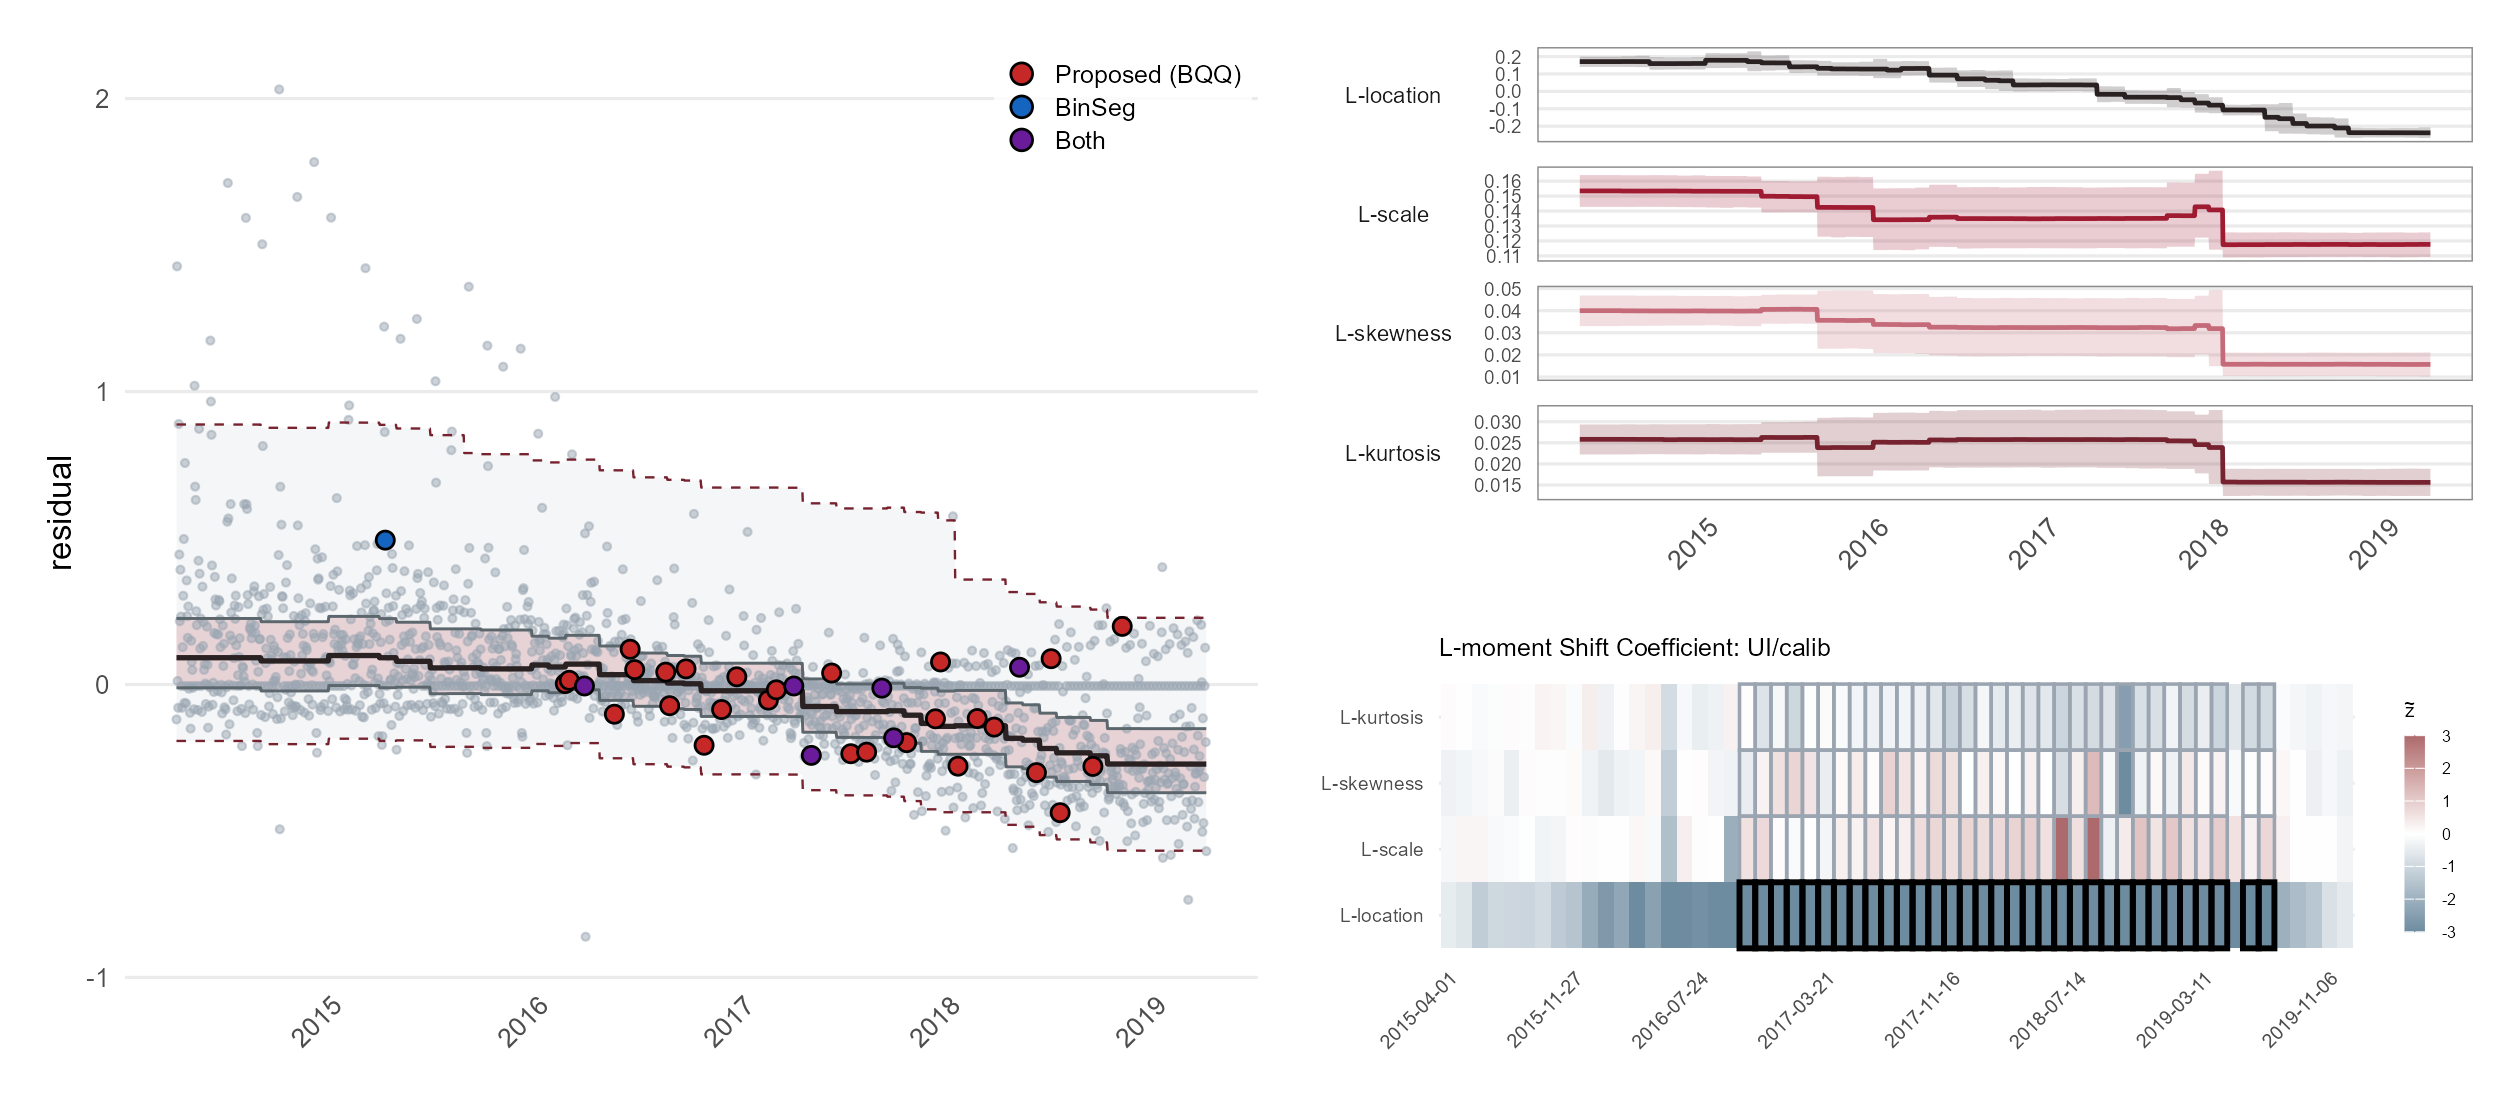
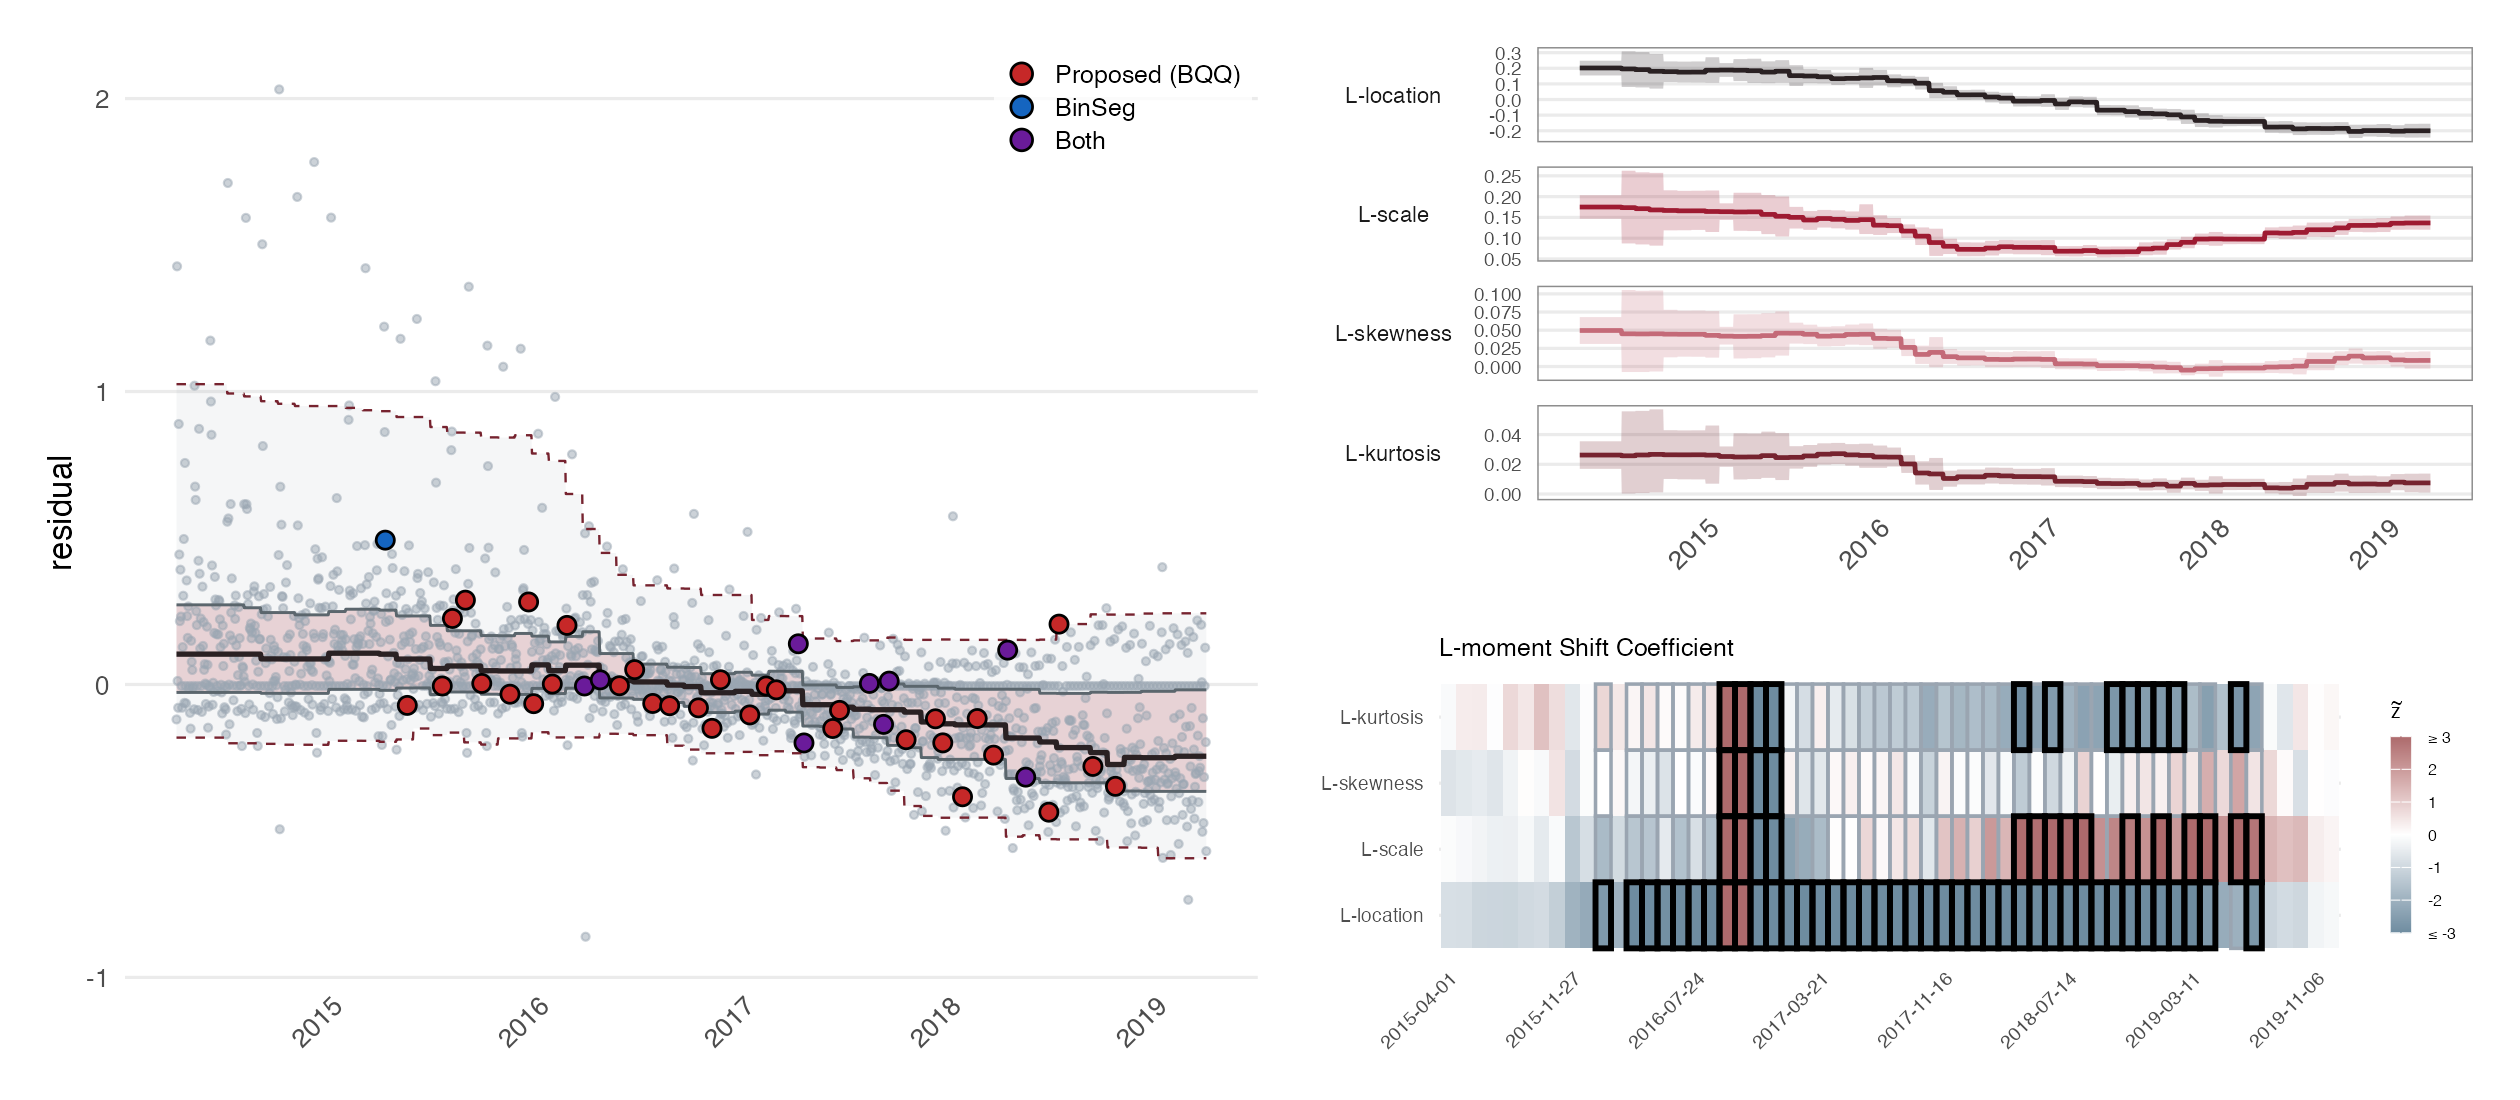
update

diff --git a/README.md b/README.md
@@ -61,9 +61,9 @@ The proposed method end to end: a grid search by cross-validation over the prior
 hyperparameter and the interquantile fusion weight `lambda_iq`, the final MAP fit at the
 winning pair, change-point detection on the three bases, and the figures. No EM is
 run anywhere: every CV fit and the final fit is a single MAP fit with `adaptive_iq = FALSE`.
-The block takes about «QS_MIN» minutes on a laptop (20 grid points, two folds, then the
-final fit with 20,000 Laplace draws); it flags «QS_FLAGS» and localizes the change to
-«QS_DATE».
+The block takes about 7 minutes on a laptop (20 grid points, two folds, then the
+final fit with 20,000 Laplace draws); it flags blocks 8 and 9 on the L-moment basis (7, 8 and 9 on the QSS basis), the blocks that contain the planted shift and localizes the change to
+2024-08-31 in block 8, with the winner at `spike_sd = 0.4`, `lambda_iq = 10`.
 
 ```r
 library(bqq)
@@ -127,9 +127,10 @@ p3 <- plotQSSProcess(fit, eta = eta, H = H, time = dates, detection = det,
                      date_breaks = ax$date_breaks, date_labels = ax$date_labels)
 p4 <- plotGammaHeatmap(fit, detection = det,
                        block_labels = format(dates[det$detected_blocks$obs_start]))
-# The talk's three-panel figure. A comparator's change points color the circles:
-# proposed, comparator, or both when within one block length of each other.
-cp <- changepoint::cpts(changepoint::cpt.meanvar(y, method = "BinSeg", Q = 12,
+# The three-panel figure. A comparator's change points color the circles: proposed,
+# comparator, or both when within one block length of each other. BinSeg's settings are
+# aligned to BQQ's: Q = r (11 blocks), minseglen = l (30), asymptotic penalty at 0.05.
+cp <- changepoint::cpts(changepoint::cpt.meanvar(y, method = "BinSeg", Q = 11, minseglen = 30,
                                                  penalty = "Asymptotic", pen.value = 0.05))
 p5 <- plotBQQSummary(fit, det, time = dates, basis = "lmom", eta = eta, H = H,
                      comparator = cp, comparator_label = "BinSeg", ylab = "y",
@@ -192,7 +193,7 @@ grid <- expand.grid(lambda_nc = 50, lambda_lasso2_b = c(0.01, 0.05, 0.1, 0.5, 1)
 cv <- cv_copss_grid(y, taus, H = H, w = w, grid = grid,
                     base_args = list(prior_gamma = "adaptive_lasso", adaptive_iq = FALSE),
                     loss = "score", seed = 1)
-best <- cv[1, ]                                          # «ARCOS_WINNER»
+best <- cv[1, ]                                          # lambda_lasso2_b = 0.05, lambda_iq = 100
 fit <- getModel(y, taus, H = H, w = w, prior_gamma = "adaptive_lasso",
                 lambda_lasso2_b = best$lambda_lasso2_b, lambda_nc = best$lambda_nc,
                 lambda_iq2 = best$lambda_iq2, adaptive_iq = FALSE,
@@ -205,8 +206,10 @@ det <- detectChangepoints_gamma(fit, taus, l = l, w = w, y = y,
 det$tests$lmom$ui$raw                                  # flagged blocks, L-moment basis
 dates[det$detected_blocks$signal_obs[det$tests$lmom$ui$raw]]
 
-# Binary segmentation (changepoint package) as the comparator of the talk
-cp <- changepoint::cpts(changepoint::cpt.meanvar(y, method = "BinSeg", Q = 60,
+# Binary segmentation (changepoint package) as the comparator, with its settings aligned
+# to BQQ's: Q = r (58 candidate blocks), minseglen = l (30 days), asymptotic penalty at
+# the same 0.05; the full series is searched.
+cp <- changepoint::cpts(changepoint::cpt.meanvar(y, method = "BinSeg", Q = 58, minseglen = 30,
                                                  penalty = "Asymptotic", pen.value = 0.05))
 eta <- getEta(fit, H = H, seed = 1)
 plotBQQSummary(fit, det, time = dates, basis = "lmom", eta = eta, H = H,
@@ -215,9 +218,9 @@ plotBQQSummary(fit, det, time = dates, basis = "lmom", eta = eta, H = H,
 
 ![ARCOS, adaptive LASSO prior, l = 30](man/figures/arcos_l30_adaptive_lasso_summary_lmom.png)
 
-The grid search takes about «ARCOS_CV_MIN» minutes on a laptop (50 single fits on 58 blocks)
-and the final fit with 50,000 Laplace draws about «ARCOS_FIT_MIN» minutes; it flags
-«ARCOS_FLAGS» on the L-moment basis. `plotBQQSummary()` on the full draw set is slow,
+The grid search takes about 90 minutes on a laptop (50 single fits on 58 blocks)
+and the final fit with 50,000 Laplace draws about 5 minutes; it flags
+41 of the 58 blocks, blocks 11 to 53 apart from 51, that is from early 2016 to the end of 2019, at the winner `lambda_lasso2_b = 0.05`, `lambda_iq = 100` on the L-moment basis. `plotBQQSummary()` on the full draw set is slow,
 so thin `fit$laplace_samples` to a few thousand draws before plotting.
 
 ## Core Functions
